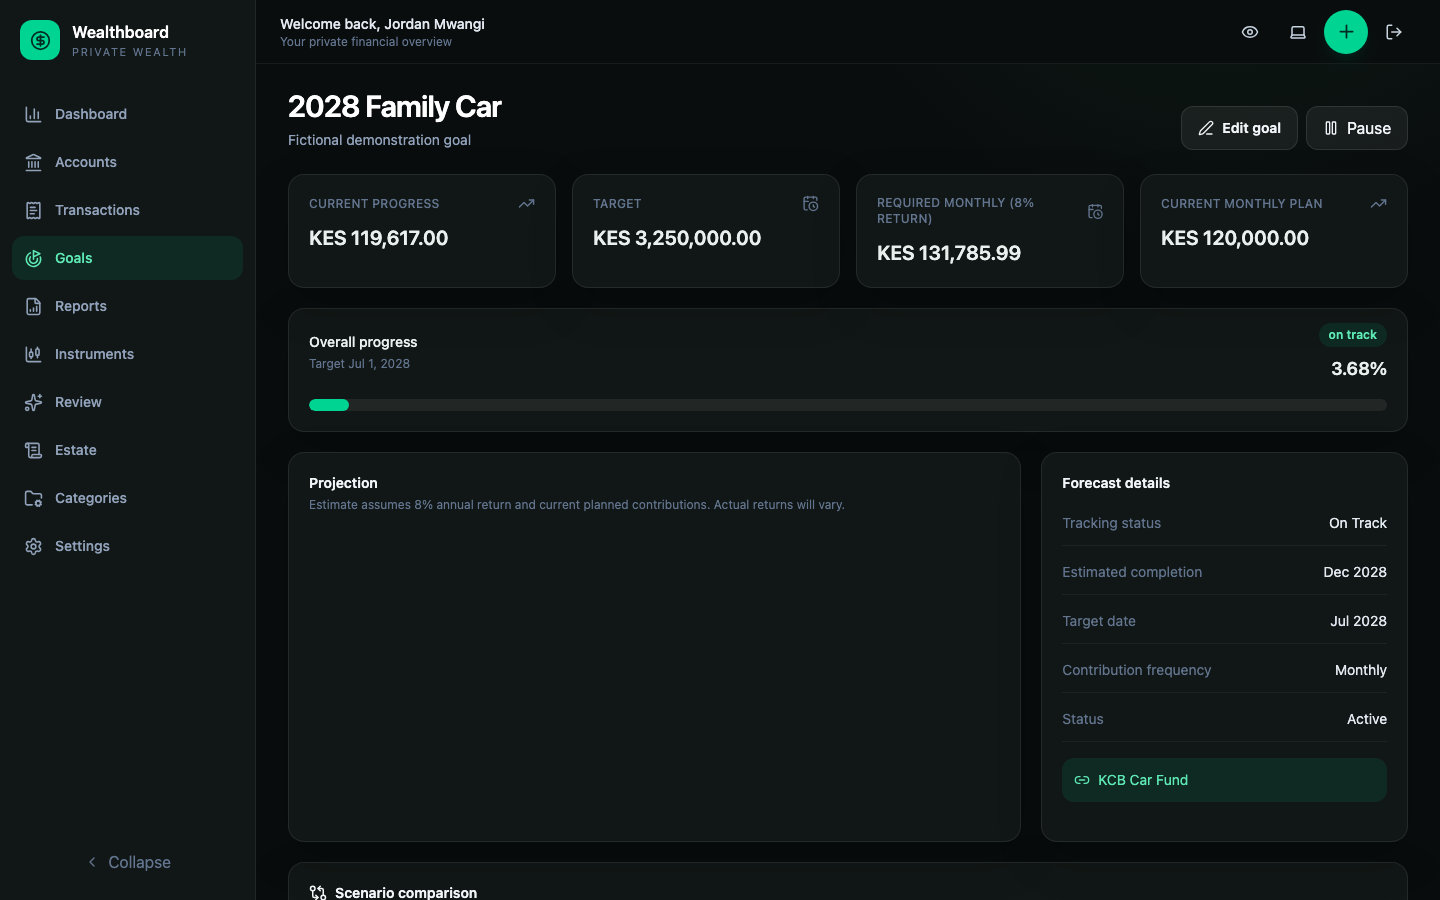
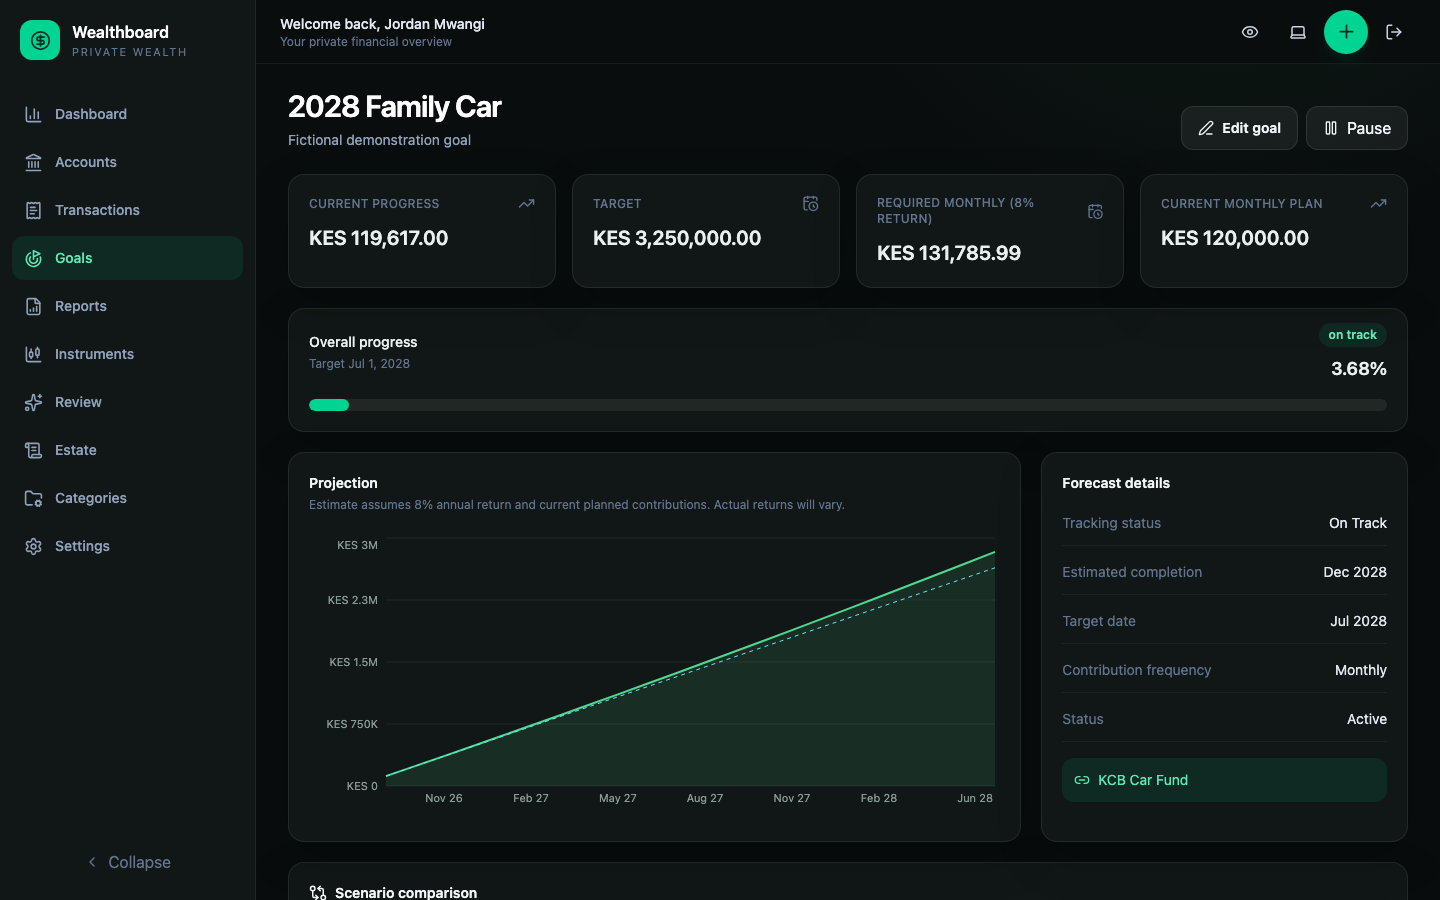
fix: update test selectors for price fields in capture.spec.ts and core.test.tsx

diff --git a/tests/docs/capture.spec.ts b/tests/docs/capture.spec.ts
@@ -192,10 +192,8 @@ test("capture the Wealthboard product guide", async ({ page }) => {
   await expect(
     page.getByRole("heading", { name: "Interactive Brokers Positions" }),
   ).toBeVisible();
-  await page
-    .getByLabel("Update Vanguard FTSE All-World UCITS ETF price")
-    .click();
-  await page.getByLabel("Unit price").fill("212");
+  await page.getByRole("link", { name: "Price", exact: true }).click();
+  await page.getByLabel(/^Price \(/).fill("212");
   await page.getByLabel("Price date").fill("2026-08-14");
   await page.getByLabel("Source").fill("broker statement");
   await page

diff --git a/web/src/pages/core.test.tsx b/web/src/pages/core.test.tsx
@@ -391,7 +391,7 @@ describe("ported core pages", () => {
     expect(
       await screen.findByRole("heading", { name: "Update security price" }),
     ).toBeInTheDocument();
-    expect(screen.getByLabelText("Unit price")).toBeInTheDocument();
+    expect(screen.getByLabelText(/^Price \(/)).toBeInTheDocument();
   });
 
   it("keeps every original page as a separate route intent", () => {
